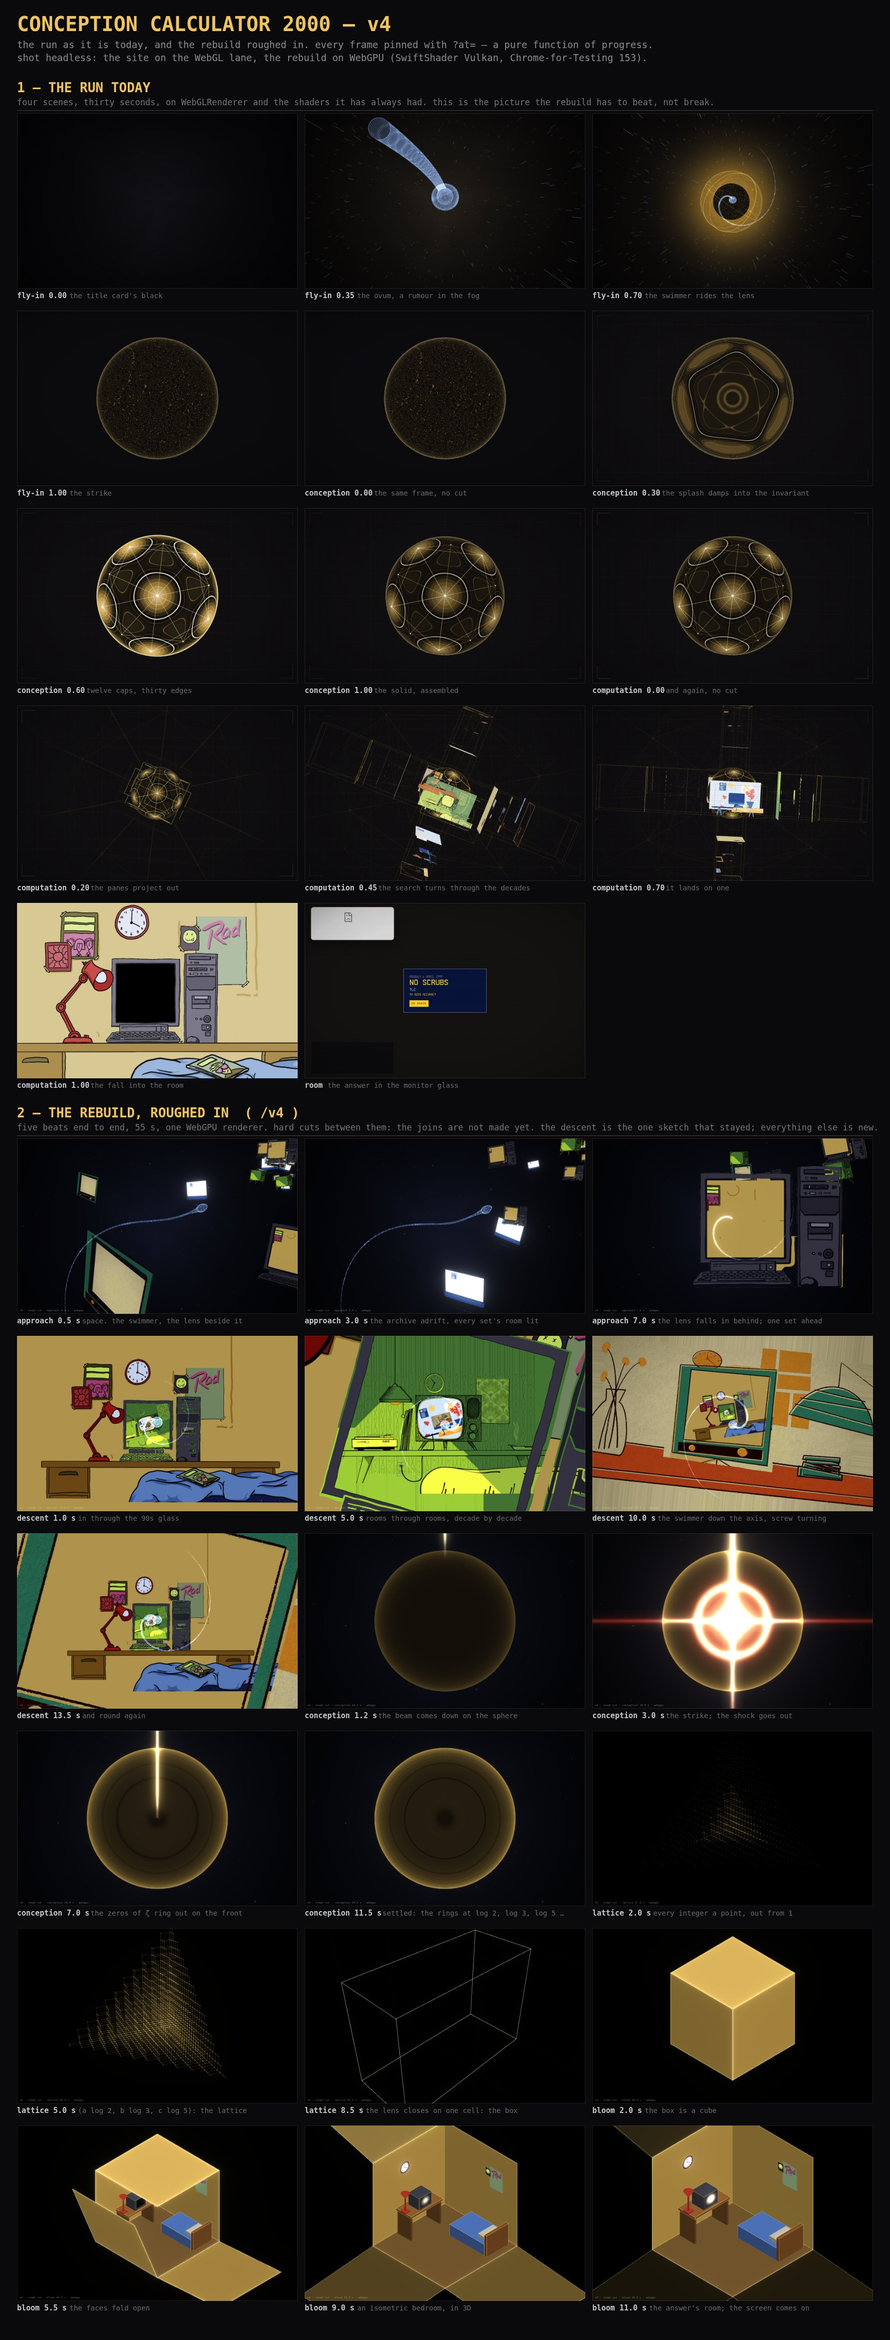
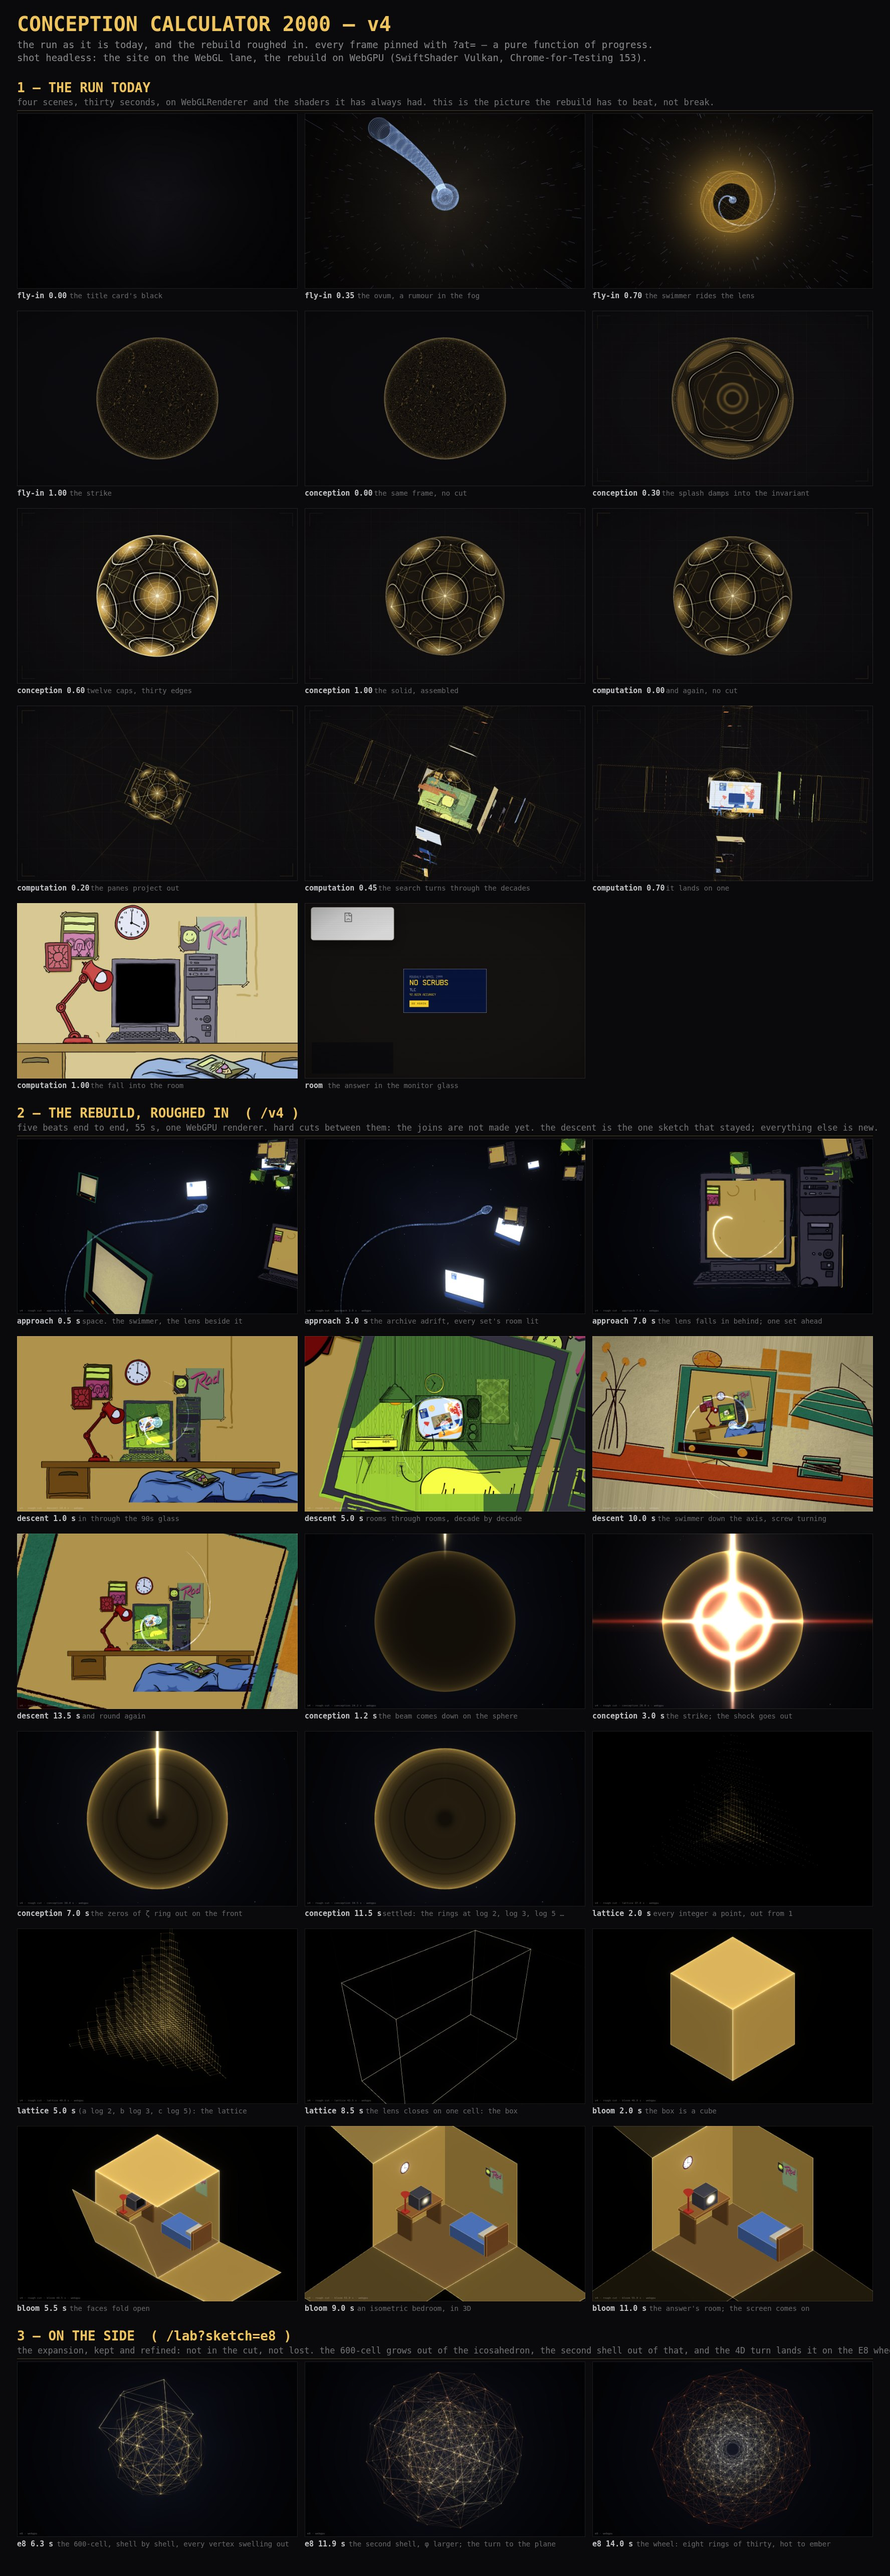
The flow page shows the E8 expansion on the side
Three frames of the refined sketch under the cut, and a paragraph to say
it is kept.

Claude-Session: https://claude.ai/code/session_01QLiPmc6xzim2DaqGbbozFN

diff --git a/docs/v4-flow.md b/docs/v4-flow.md
@@ -34,6 +34,13 @@ hard: the swimmer speeding up into the beam, and the lattice's cell being the
 cube, are joins for later. The fly-in is not in it: it stays on the old
 renderer until the Stage swap, and the approach is what would replace it.
 
+**3 — on the side.** The E8 expansion, kept and refined at
+`/lab?sketch=e8` though not in the cut: the 600-cell grows out of the
+icosahedron shell by shell, every vertex born inside its place and swelling out
+to it; the second shell is born on the first, φ larger; and a rotation of
+4-space lands the pair on the H4 Coxeter plane, the wheel — eight rings of
+thirty, drawn as dots now as well as edges, hot at the hub and ember at the rim.
+
 ## Reproducing the page
 
     npm run dev
